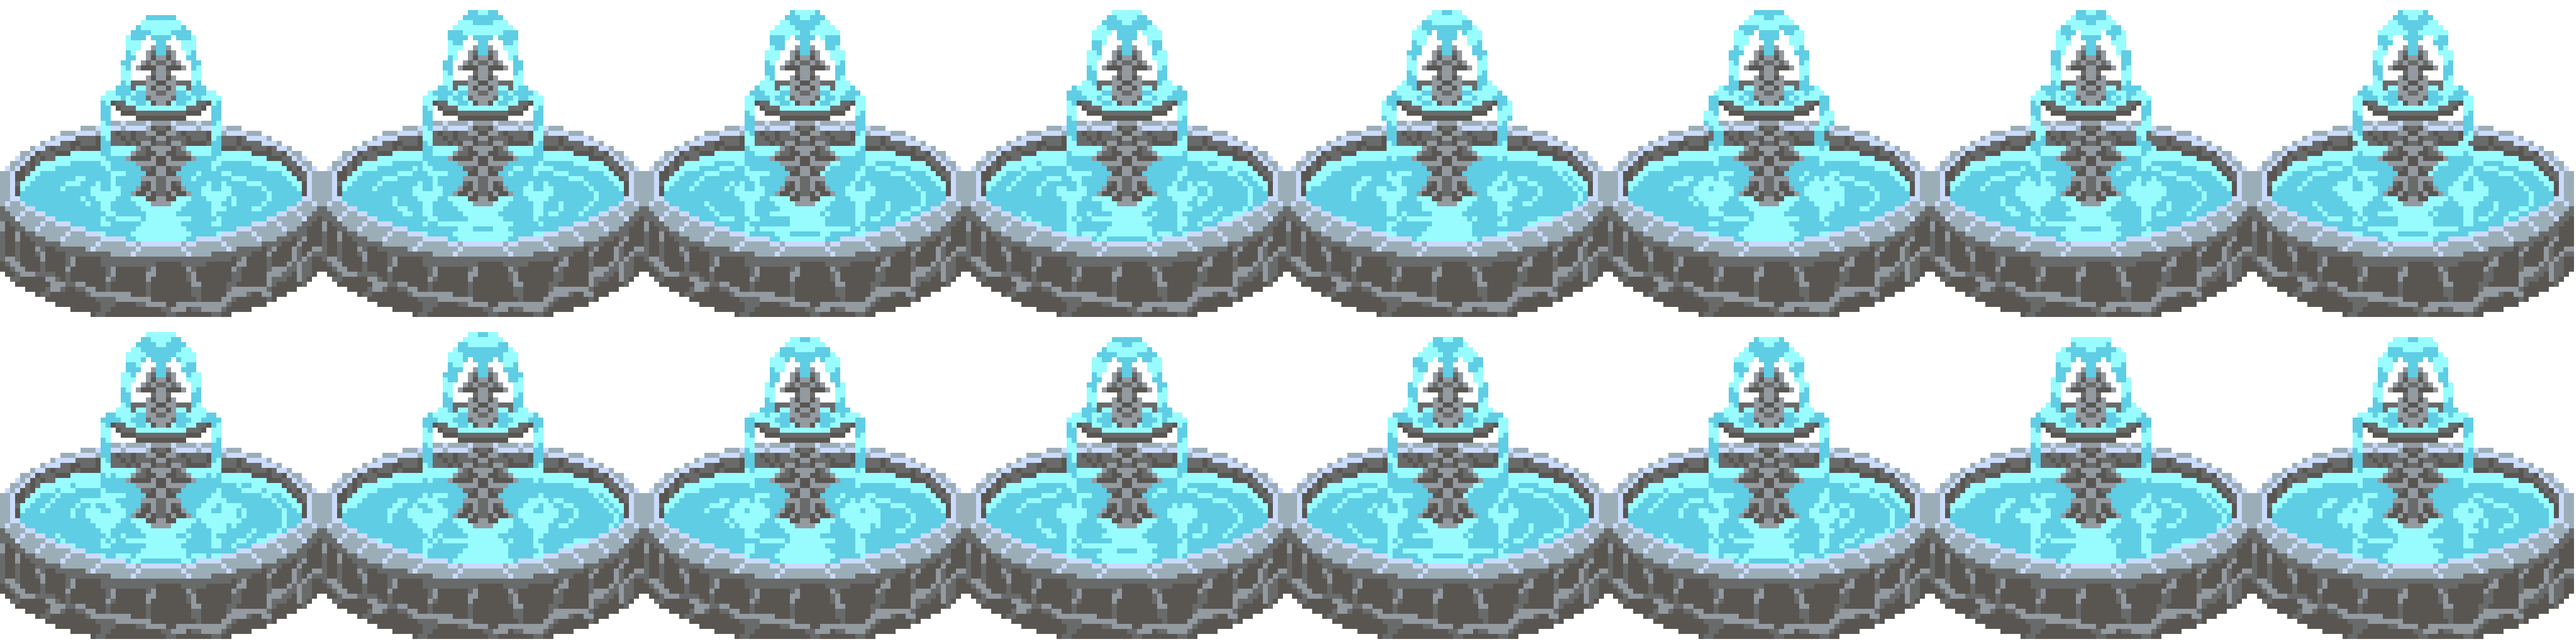
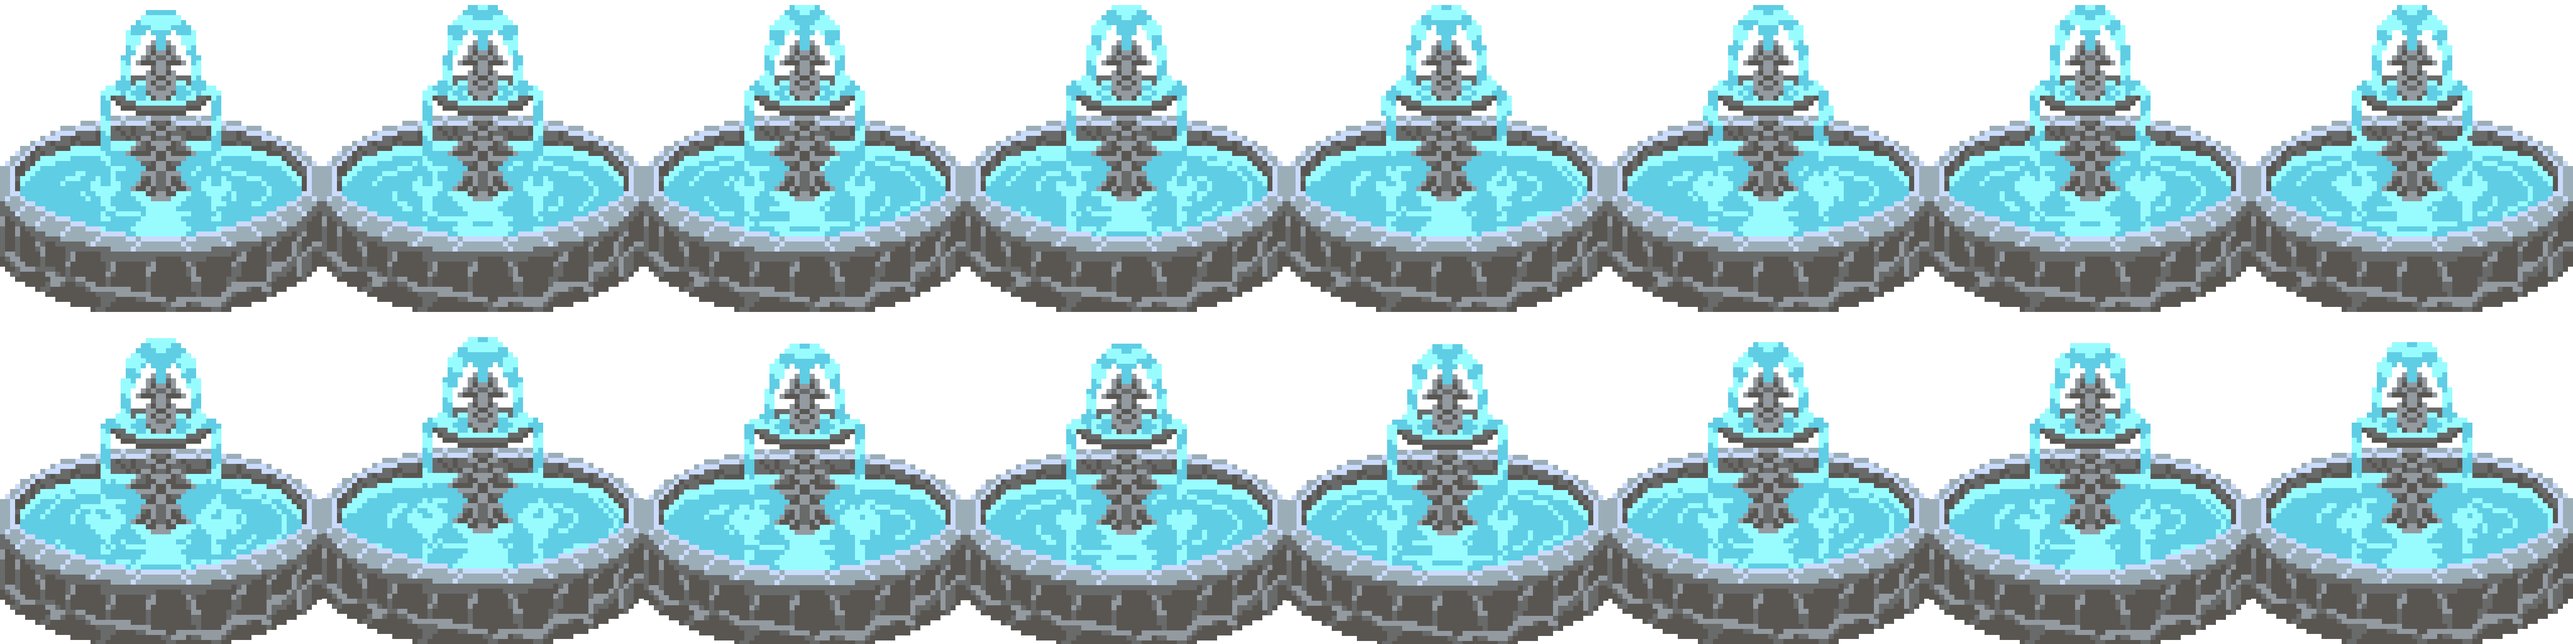
beautiful plat

Changed region(s): [[0.0, 0.0, 1.0, 0.5], [0.0, 0.5312, 1.0, 1.0]]

diff --git a/main.py b/main.py
@@ -190,27 +190,29 @@ class Camera:
     def __init__(self):
         self.dx = 0
         self.dy = 0
+        self.fon_apply = False
+        self.fon_reapply = False
 
     def apply(self, obj):
         obj.pos = (obj.pos[0] + self.dx,
-        obj.pos[1] + self.dy)
+                   obj.pos[1] + self.dy)
         obj.rect.x += self.dx
         obj.rect.y += self.dy
 
     def reapply(self, obj):
         obj.pos = (obj.pos[0] - self.dx,
-        obj.pos[1] - self.dy)
+                   obj.pos[1] - self.dy)
         obj.rect.x += -self.dx
         obj.rect.y += -self.dy
 
     def update(self):
         global change
+        self.fon_apply = False
+        self.fon_reapply = False
         if change[0] != 0 or change[1] != 0:
             self.dx = -change[0]
             self.dy = -change[1]
         change = (0, 0)
-        # if self.dx != 0 or self.dy != 0:
-        #     print(self.dx, self.dy)
 
 
 class Portal(AnimatedSprite):
@@ -239,7 +241,6 @@ class NPC(AnimatedSprite):
         self.frames = self.frames[:]
 
 
-
 class Mushroom:
     pass
 
@@ -251,13 +252,26 @@ class Coins(AnimatedSprite):
         self.pos = x * tile_width, y * tile_height
         self.rect = self.image.get_rect().move(
             self.pos)
-        print(self.pos)
+
     def get(self):
         player.money += self.gold
 
     def move(self, x, y):
         self.pos = (x, y)
         self.rect = self.image.get_rect().move(x, y)
+
+
+class Fountain(AnimatedSprite):
+    def __init__(self, sheet, columns, rows, x, y, group=all_sprites, need_scale=True, scaling=(75, 75)):
+        super().__init__(sheet, columns, rows, x, y, group, need_scale, scaling)
+        self.pos = x * tile_width, y * tile_height
+        self.rect = self.image.get_rect().move(
+            self.pos)
+
+    def heal(self):
+        player.lives += 1
+
+
 def load_image(name, colorkey=None, scale=False):
     fullname = os.path.join('data', name)
     if not os.path.isfile(fullname):
@@ -334,9 +348,9 @@ def generate_level(level):
                           group=[npc_group, tiles_group], scaling=(100, 100))
             elif level[y][x] == 'M':
                 Tile('empty', x - sdv, y - sdv)
-                rand = random.choice([10, 15,20])
-                Coins(10, load_image('coins/coin_1_anim.png'), 2, 2, x - sdv, y-sdv + 0.4,
-                          group=[tiles_group, coins_group], scaling=(25, 25))
+                rand = random.choice([10, 15, 20])
+                Coins(10, load_image('coins/coin_1_anim.png'), 2, 2, x - sdv, y - sdv + 0.4,
+                      group=[tiles_group, coins_group], scaling=(25, 25))
     new_player = Player(player_pos[0], player_pos[1],
                         [player_idle, player_walk, player_jump, player_attack, player_damage, player_die, player_dead])
     return new_player, new_enemy, new_boss, WIDTH, HEIGHT
@@ -358,6 +372,7 @@ def load_level(filename):
         level_map = [line.strip() for line in mapFile]
     max_width = max(map(len, level_map))
     return list(level_map)
+    # return list(map(lambda x: x.ljust(max_width, '.'), level_map))
 
 
 def enemy_movement_attack():
@@ -429,6 +444,7 @@ def boss_movement_attack():
     if boss.rect[0] - player.rect[0] < 150:
         boss.attack()
 
+
 class Particle(pygame.sprite.Sprite):
     # сгенерируем частицы разного размера
     fire = [load_image("particle.png")]
@@ -464,6 +480,7 @@ tile_images = {
     'wall': load_image('box.png'),
     'empty': load_image('texture_fon.png')
 }
+fountain_group = pygame.sprite.Group()
 coins_group = pygame.sprite.Group()
 npc_group = pygame.sprite.Group()
 back_group = pygame.sprite.Group()
@@ -478,6 +495,8 @@ portal_group = pygame.sprite.Group()
 technical_sprite_group = pygame.sprite.Group()
 particle_group = pygame.sprite.Group()
 fon_group = pygame.sprite.Group()
+castle_group = pygame.sprite.Group()
+fon = AnimatedSprite(load_image('fon2.png'), 1, 1, HEIGHT * 2, -300, scaling=(1200 * 1.5, 680 * 1.5), group=[castle_group, tiles_group])
 player_idle = AnimatedSprite(load_image('Player_movement/Woodcutter_idle.png'), 4, 1, WIDTH // 2, HEIGHT // 2,
                              scaling=(65, 65))
 player_image = player_idle.frames[0]
@@ -495,7 +514,6 @@ player_die = AnimatedSprite(load_image('Player_movement/Woodcutter_death.png'), 
                             scaling=(65, 65))
 player_dead = AnimatedSprite(load_image('Player_movement/Woodcutter_dead.png'), 1, 1, WIDTH // 2, HEIGHT // 2,
                              scaling=(65, 65))
-tile_width = tile_height = 50
 fon = AnimatedSprite(load_image('fon_anim.png'), 1, 4, 0, 0, group=fon_group, need_scale=True, scaling=(WIDTH, HEIGHT))
 button_play = AnimatedSprite(load_image('button_anim.png'), 1, 2, WIDTH // 2 - 125, HEIGHT // 2 - 36,
                              group=button_group, need_scale=True, scaling=(250, 73))
@@ -511,13 +529,10 @@ boss_idle = AnimatedSprite(load_image("Boss_movement/Boss_idle.png"), 4, 1, 0, 0
 boss_image = boss_idle.frames[0]
 boss_damage = AnimatedSprite(load_image("Boss_movement/Boss_hurt.png"), 2, 1, 0, 0)
 boss_die = AnimatedSprite(load_image("Boss_movement/Boss_die.png"), 6, 1, 0, 0)
+fountain = AnimatedSprite(load_image('fountain/fountainanim2.png'), 1, 16, HEIGHT + 600, 200, scaling=(200, 200),
+                          group=[fountain_group, tiles_group])
 
 tile_width = tile_height = 50
-
-player = None
-enemy = None
-boss = None  # группы спрайтов
-
 level_map_1 = load_level('map.txt')
 level_map_2 = load_level('map2.txt')
 cursor = AnimatedSprite(load_image('cursor1_2.png'), 1, 1, pygame.mouse.get_pos()[0], pygame.mouse.get_pos()[1],
@@ -643,6 +658,9 @@ if __name__ == '__main__':
                 if event.key == pygame.K_w:
                     for elem in portal_group:
                         if pygame.sprite.collide_mask(elem, player):
+                            castle_group.empty()
+                            fountain_group.empty()
+                            coins_group.empty()
                             back_group.empty()
                             plat_group.empty()
                             portal_group.empty()
@@ -716,9 +734,12 @@ if __name__ == '__main__':
             player.animate('idle')
         screen.fill('black')
 
+        all_sprites.draw(screen)
+        castle_group.draw(screen)
         back_group.draw(screen)
         plat_group.draw(screen)
         portal_group.draw(screen)
+        fountain_group.draw(screen)
         npc_group.draw(screen)
         player_group.draw(screen)
         enemy_group.draw(screen)
@@ -735,5 +756,6 @@ if __name__ == '__main__':
         if counter % 10 == 0:
             npc_group.update()
             coins_group.update()
+            fountain_group.update()
         clock.tick(100)
         player_pos = player.pos
